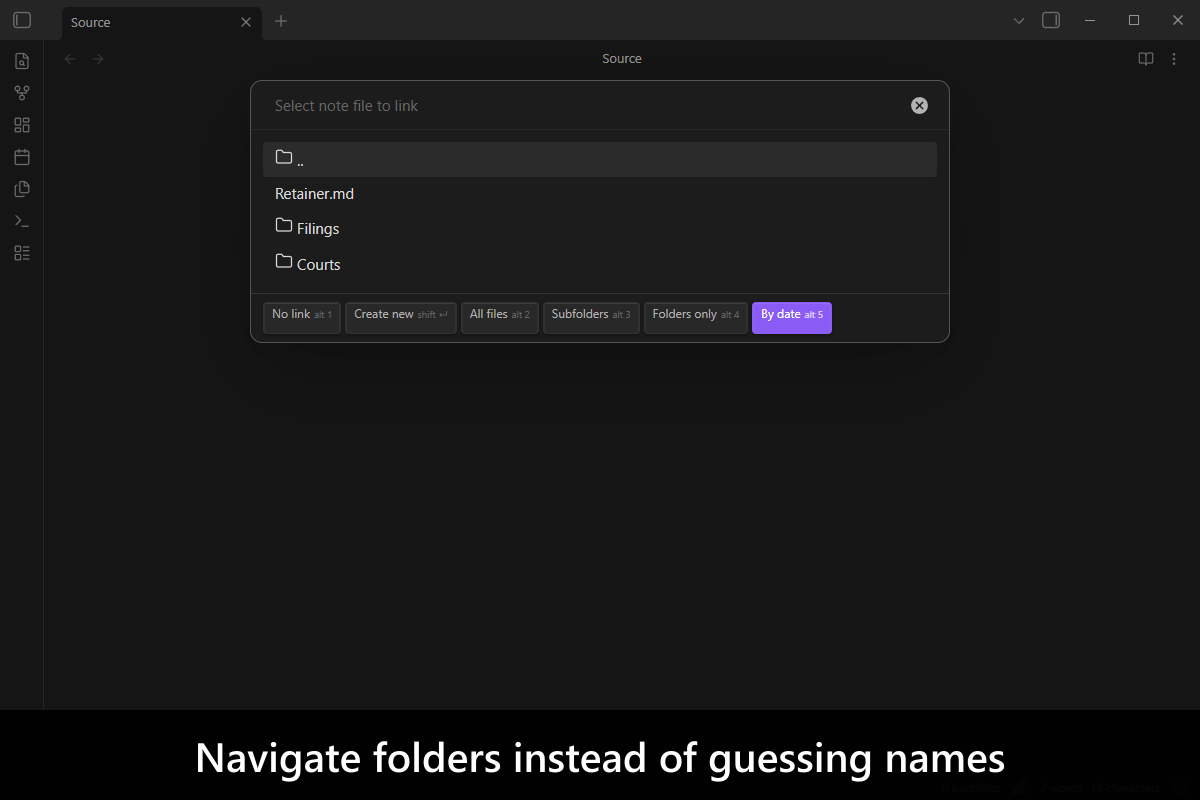
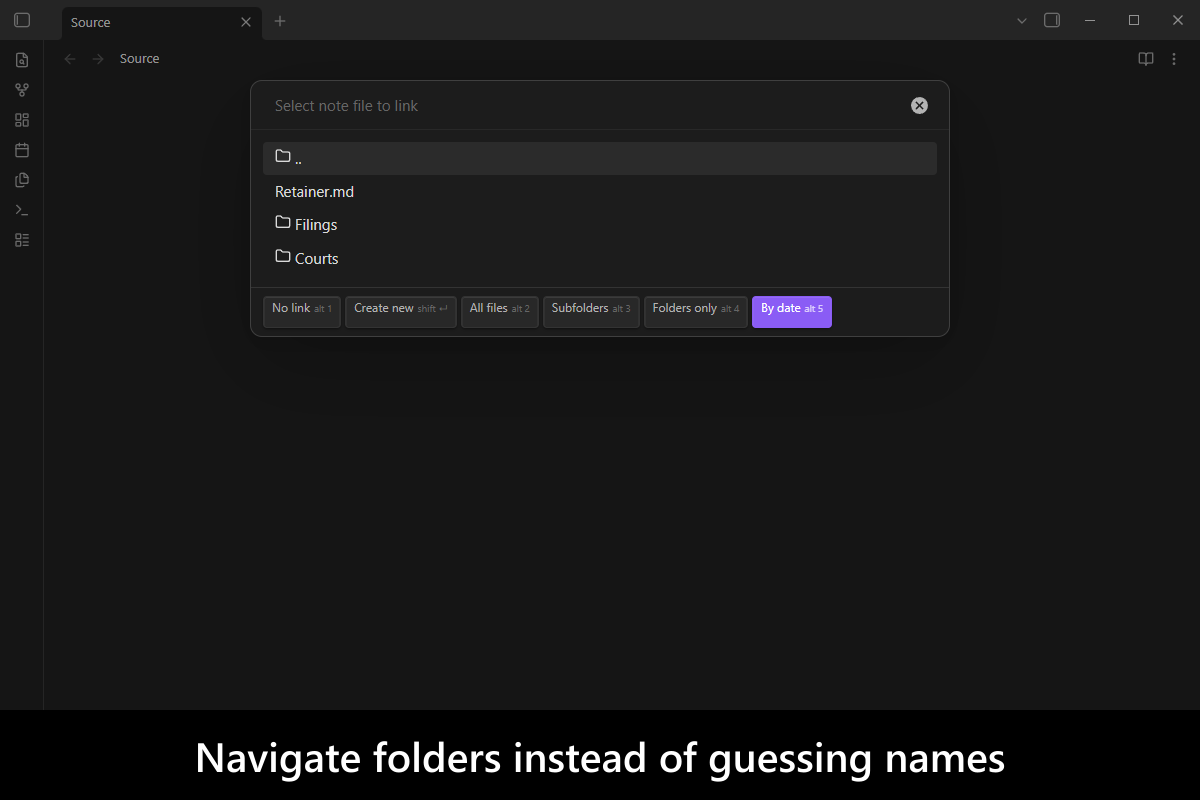
fix(screenshots): hide the caret in the desktop capture and re-shoot both desktop frames
The desktop suite painted the search field's blinking caret, so two captures
of screenshot-desktop-2.png disagreed on a 20-pixel column. It now makes the
caret transparent, as the Android suite already does, and three captures in a
row came back byte-identical.

The two desktop frames are re-shot with the opaque caption band and the
current desktop Obsidian UI.

diff --git a/src/screenshots.desktop-capture.integration.test.ts b/src/screenshots.desktop-capture.integration.test.ts
@@ -200,6 +200,32 @@ async function filterTo(text: string): Promise<void> {
 }
 
 /**
+ * Stops the text caret in the open picker from being drawn.
+ *
+ * The caret BLINKS, so two captures of the same state disagree on a 1px column whenever they land in
+ * opposite halves of the blink — 20 pixels of `screenshot-desktop-2.png`, measured between two runs.
+ * There is nothing to wait for, since the next blink undoes whatever the last one did, so the caret is
+ * simply not painted. The field keeps its focus ring, which is what shows it has focus.
+ *
+ * Set on the element rather than through a stylesheet: a lint rule refuses a `style` element outright,
+ * and this is presentation for one capture rather than something the plugin ships.
+ */
+async function hideCaret(): Promise<void> {
+  await evalInObsidian({
+    callback({ inputSelector }): void {
+      const input = document.querySelector(inputSelector);
+      if (!(input instanceof HTMLInputElement)) {
+        throw new TypeError('The picker has no input.');
+      }
+
+      input.setCssStyles({ caretColor: 'transparent' });
+    },
+    input: { inputSelector: INPUT_SELECTOR },
+    vaultPath: vaultPath()
+  });
+}
+
+/**
  * Opens the picker, navigates into a folder, and leaves it on screen for the capture.
  *
  * @param params - The folder to navigate into, and what to type once inside it.
@@ -250,6 +276,8 @@ async function openPicker(params: OpenPickerParams): Promise<string[]> {
   if (params.query) {
     await filterTo(params.query);
   }
+
+  await hideCaret();
 
   return await pollRows('the picker showed nothing to photograph', (rows: string[]): boolean => rows.length > 0);
 }

diff --git a/AGENTS.md b/AGENTS.md
@@ -72,6 +72,7 @@ The workspace convention is that all plugins share the same architecture; intent
 - **The mobile shots capture the DEVICE, not the web page.** `captureObsidianScreenshot` goes through Appium in the WebView context, so it photographs the page: no status bar, and no keyboard, because the IME is a system window. These shots use the harness's `captureDeviceScreenshot`, which reads the framebuffer as the control-strip pass does. That is also why these frames carry a status bar and the pre-keyboard ones did not.
 - **The mobile frames ARE byte-reproducible, and it took three separate answers — every one of them found by capturing twice and diffing, not by reasoning.** A re-capture of an unchanged suite used to rewrite both PNGs with a different wall clock, a battery that had charged since the last run and a radio that came and went, so a capture always left a tree nobody could commit — and the second frame additionally carried a teal selection handle, a real defect in a store listing image rather than mere churn. **The status-bar band is PAINTED OUT** (the harness's `paintOutStatusBar`, given the 48px this AVD measures, compositing the background color it samples from the band's own empty rows), not pinned: SystemUI's demo mode held the clock at `12:00` and two runs still disagreed on 1823 full-contrast pixels, because the bar's leading group is laid out at a different offset between emulator boots. That is also why the suite writes no device settings of its own any more. **The handle is avoided by raising the keyboard while the field is EMPTY** and writing the query back afterwards, which `raiseSoftKeyboard` now does by itself (`shouldEmptyFieldForTouch`, on by default): the touch that raises the IME puts Chromium's insertion handle under the caret when it lands inside text, which is exactly why shot 2 carried one and shot 1 — whose query is empty — never did. Do not turn that option off; that is the bug. The geometry it returns is read with the field still empty, which `expectControlStripClearOfKeyboard` accepts because the strip and the field are both anchored to the bottom of the modal. **The caret itself is not painted** (`caret-color` on the field, `hideCaret`), because it blinks and there is no settle long enough to outwait a blink. That one stays in this suite on purpose: it is a presentation choice about this picker, where the other two are true of any device capture.
 - **The painted band is bounded by an assertion, not by trust.** The harness's `paintOutStatusBar` requires the row just under the bar's content to be one flat color across the frame, so a taller status bar or an Obsidian that starts drawing higher fails the capture instead of quietly painting over the product.
+- **The desktop frames are byte-reproducible too, and the caret was the only thing in the way.** The desktop suite has no status bar and no keyboard, so its one moving part was the search field's blinking caret, which made two captures of `screenshot-desktop-2.png` disagree on a 20-pixel column. It now calls its own `hideCaret`, the same `caret-color: transparent` as the Android suite, and three captures in a row came back byte-identical. It hides the caret rather than blurring the field on purpose: a blur also drops the focus ring, and the ring is what shows the field is the one being typed into.
 - **Verify a change to any of that by capturing TWICE and comparing, never by looking at one frame.** Both PNGs must come back byte-identical between the two runs; a single green capture says nothing about reproducibility, which is the property the frames are committed on.
 - **Two suites now share the `*.android-capture.` suffix, so the projects are routed by FILE, not by suffix.** They keep the shared suffix on purpose: it is what the author's other screenshot suites are called. It no longer buys an exemption: from `obsidian-dev-utils` 103.0.0 the shared ESLint config holds `*.android-capture.` files to `no-untrusted-input-events` like every other integration test, where earlier releases skipped them by filename. This repo is the only one with two Android capture projects, so `scripts/vitest-config.ts` includes `control-strip.android-capture.…` and `screenshots.android-capture.…` by name. Routing either project off the bare suffix runs each suite on the other's AVD, and the listing shots then fail their own size assertion — which is the good outcome; the bad one is the control-strip pass quietly overwriting nothing at all while the listing PNGs come out 1344x2992.
 - **The host half of that suite must not use a bare `setTimeout`.** It runs in Node, but `obsidianmd/prefer-window-timers` cannot tell, and `lint:fix` will rewrite it to `window.setTimeout` — which typechecks and then throws `window is not defined`. Use `node:timers/promises`.
@@ -81,6 +82,5 @@ The workspace convention is that all plugins share the same architecture; intent
 
 - Released at `1.0.1` (`12f30f2`, tag `1.0.1`). Unreleased on `main` since it: the `obsidian-dev-utils` command-builder convergence, the `build:compile` wiring fix, the raised soft keyboard on the mobile listing shots, the configurable `segmentMatchMode` — which also took the API contract to `1.1.0`, so the release notes have to say so — the API moving from a hand-published record to a `getPluginApis()` declaration, which is what makes the `obsidian-dev-utils:plugin-loaded` broadcast name that `1.1.0` instead of announcing no API at all, and the published `api.d.ts` — the release notes should point a consumer at it, since it is the file they copy and it did not exist at `1.0.1`. The three pre-release items that pass carried are answered: the community-plugin survey found nothing comparable (7,135 registry entries; the record is in the task file), the control-strip pass now runs on the emulator under real touches (`npm run capture:control-strip`), and the live-vault recheck of the shim's `inlineField` → `prefix` mapping was replaced by end-to-end coverage of declining a link WITH a prefix, in `api.cross-platform.integration.test.ts`.
 - `obsidian-dev-utils` was raised from `^103.2.0` to `^105.0.0` on `main`, crossing 102, 103 and 104 in one step. It is a `devDependency`, but the plugin source imports it and esbuild bundles it into `main.js`, so the raise ships and the release notes should say the bundled library moved. It carried 26 interface members from method to property style across 12 files — the shared config's `method-signature-style` returning to `property` — with no behavioral change, and it is what lets `no-soft-break-in-paragraph` be on in this repo at all. It was then raised again, to `^107.0.0`, together with `obsidian-integration-testing` `^12.3.0` → `^17.0.1`, since 107 is the first release whose peer range admits 17. That step brought eslint-plugin-unicorn 76 through the shared config, and its three findings in `item.ts` and `link-picker-modal.ts` were rewritten by hand with no behavioral change. 107 also stops esbuild resolving dependencies to their Node builds in a plugin bundle, which changes what `main.js` bundles.
-- **The two desktop listing frames are still the pre-`^17` captures, deliberately.** The mobile pair was re-shot with the opaque caption band. The desktop pair was not: a re-shoot also differs outside the band (desktop Obsidian 1.14.2 left-aligns the view-header title and tightens the rows), and two captures in a row disagreed on 20 pixels of `screenshot-desktop-2.png`. That is the search field's caret, which the desktop suite still paints while the Android one hides it with `hideCaret`. Hide it there too, capture twice, and commit the pair only when the two runs match byte for byte.
 - One finding from that pass is still open, and it is a styling question rather than a bug in behavior: **a toggle turned on while it still holds focus keeps the neutral fill**, so between the tap that turns it on and the next tap elsewhere the strip reads as though it were off. `aria-pressed` and `is-active` are both correct throughout — only the painted result is not.
 - **The control-strip pass has not been re-run on a device since it was converted to the harness's trusted touches, so its seven frames are still the `adb` era's.** The conversion is green on everything that can be checked without a phone — compile, lint, `format:check`, spellcheck, `lint:md`, and the unit suite at 100 % — and the mechanism it now uses is already exercised on Android in this repo by the listing suite's `closeAnyOpenPicker`, which taps a `.modal-command` with `clickElement` and waits for the picker to close. What is outstanding is the run itself: `npm run capture:control-strip`, with the seven PNGs in `dist/control-strip/` read against a run from before the change. **The run is blocked by the machine rather than by this repo** — the harness probes a device's AVD over the emulator CONSOLE, so one unresponsive emulator belonging to any other project makes it refuse to start `obsidian_test` at all (`device emulator-XXXX did not answer 'adb -s … emu avd name' within 5000ms … so this run cannot tell whether it is already serving that AVD`). Its own remedy is to kill that device, which is not this repo's to kill. Retry when no foreign emulator is up.
